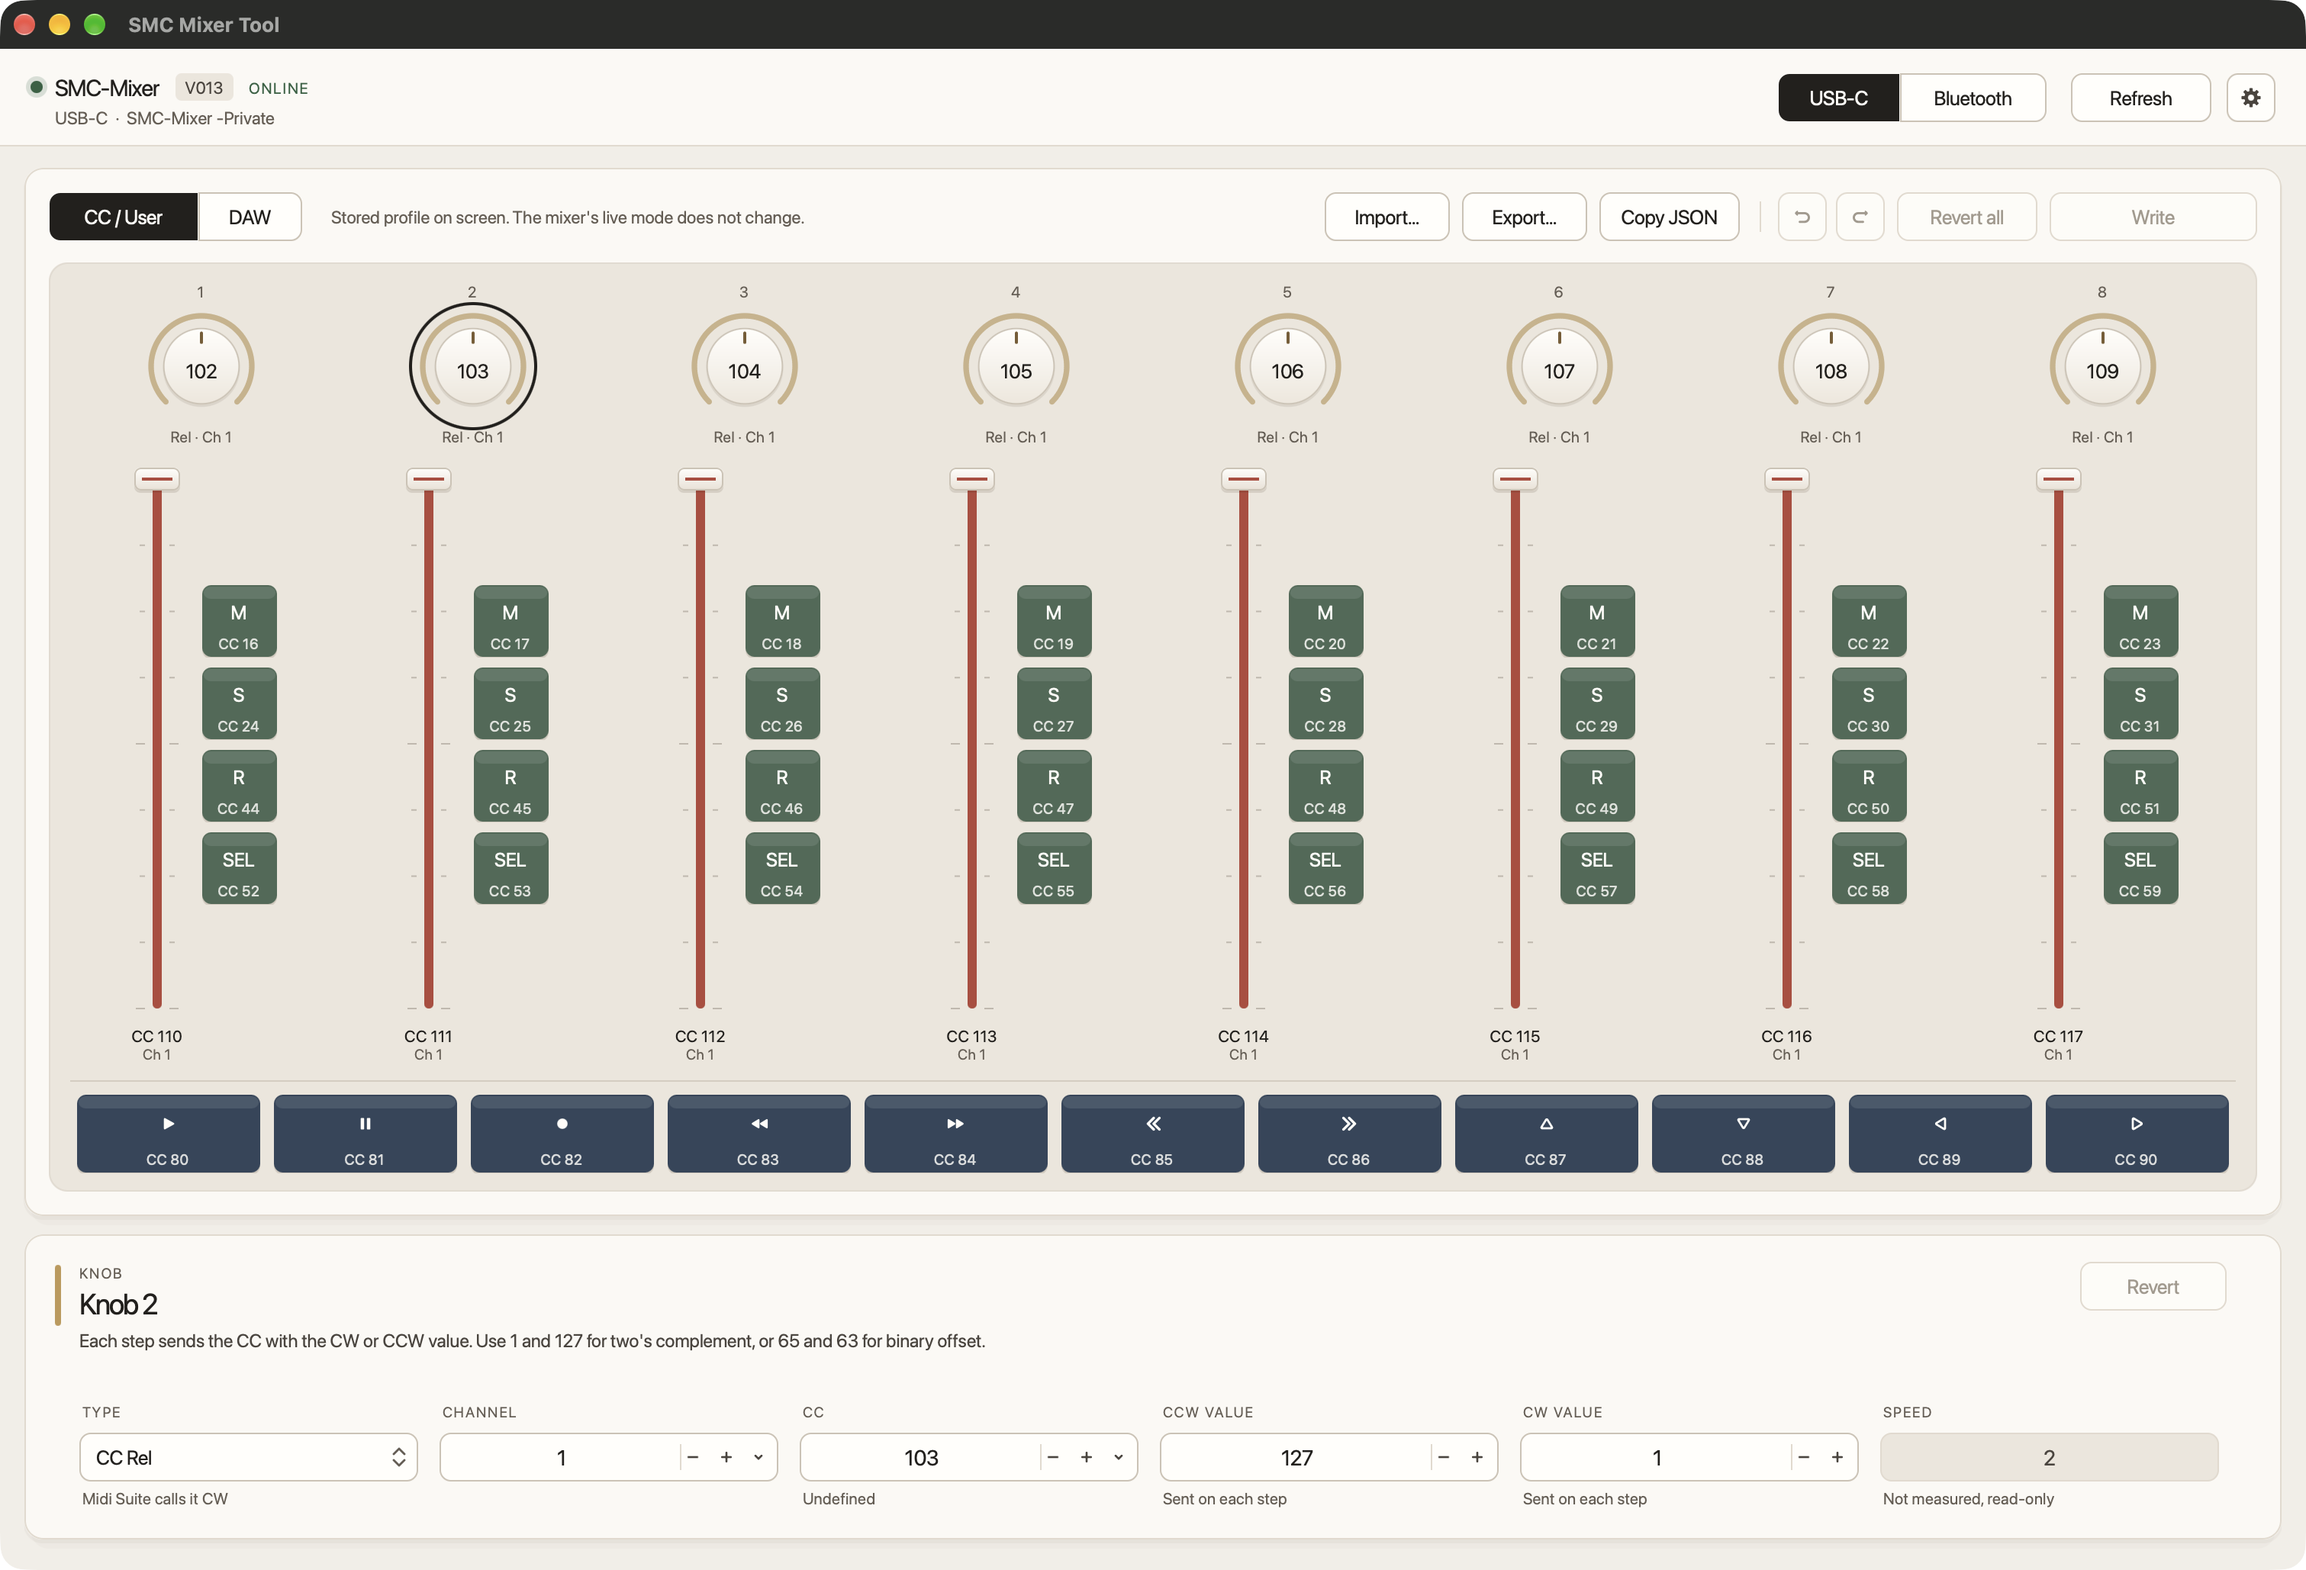
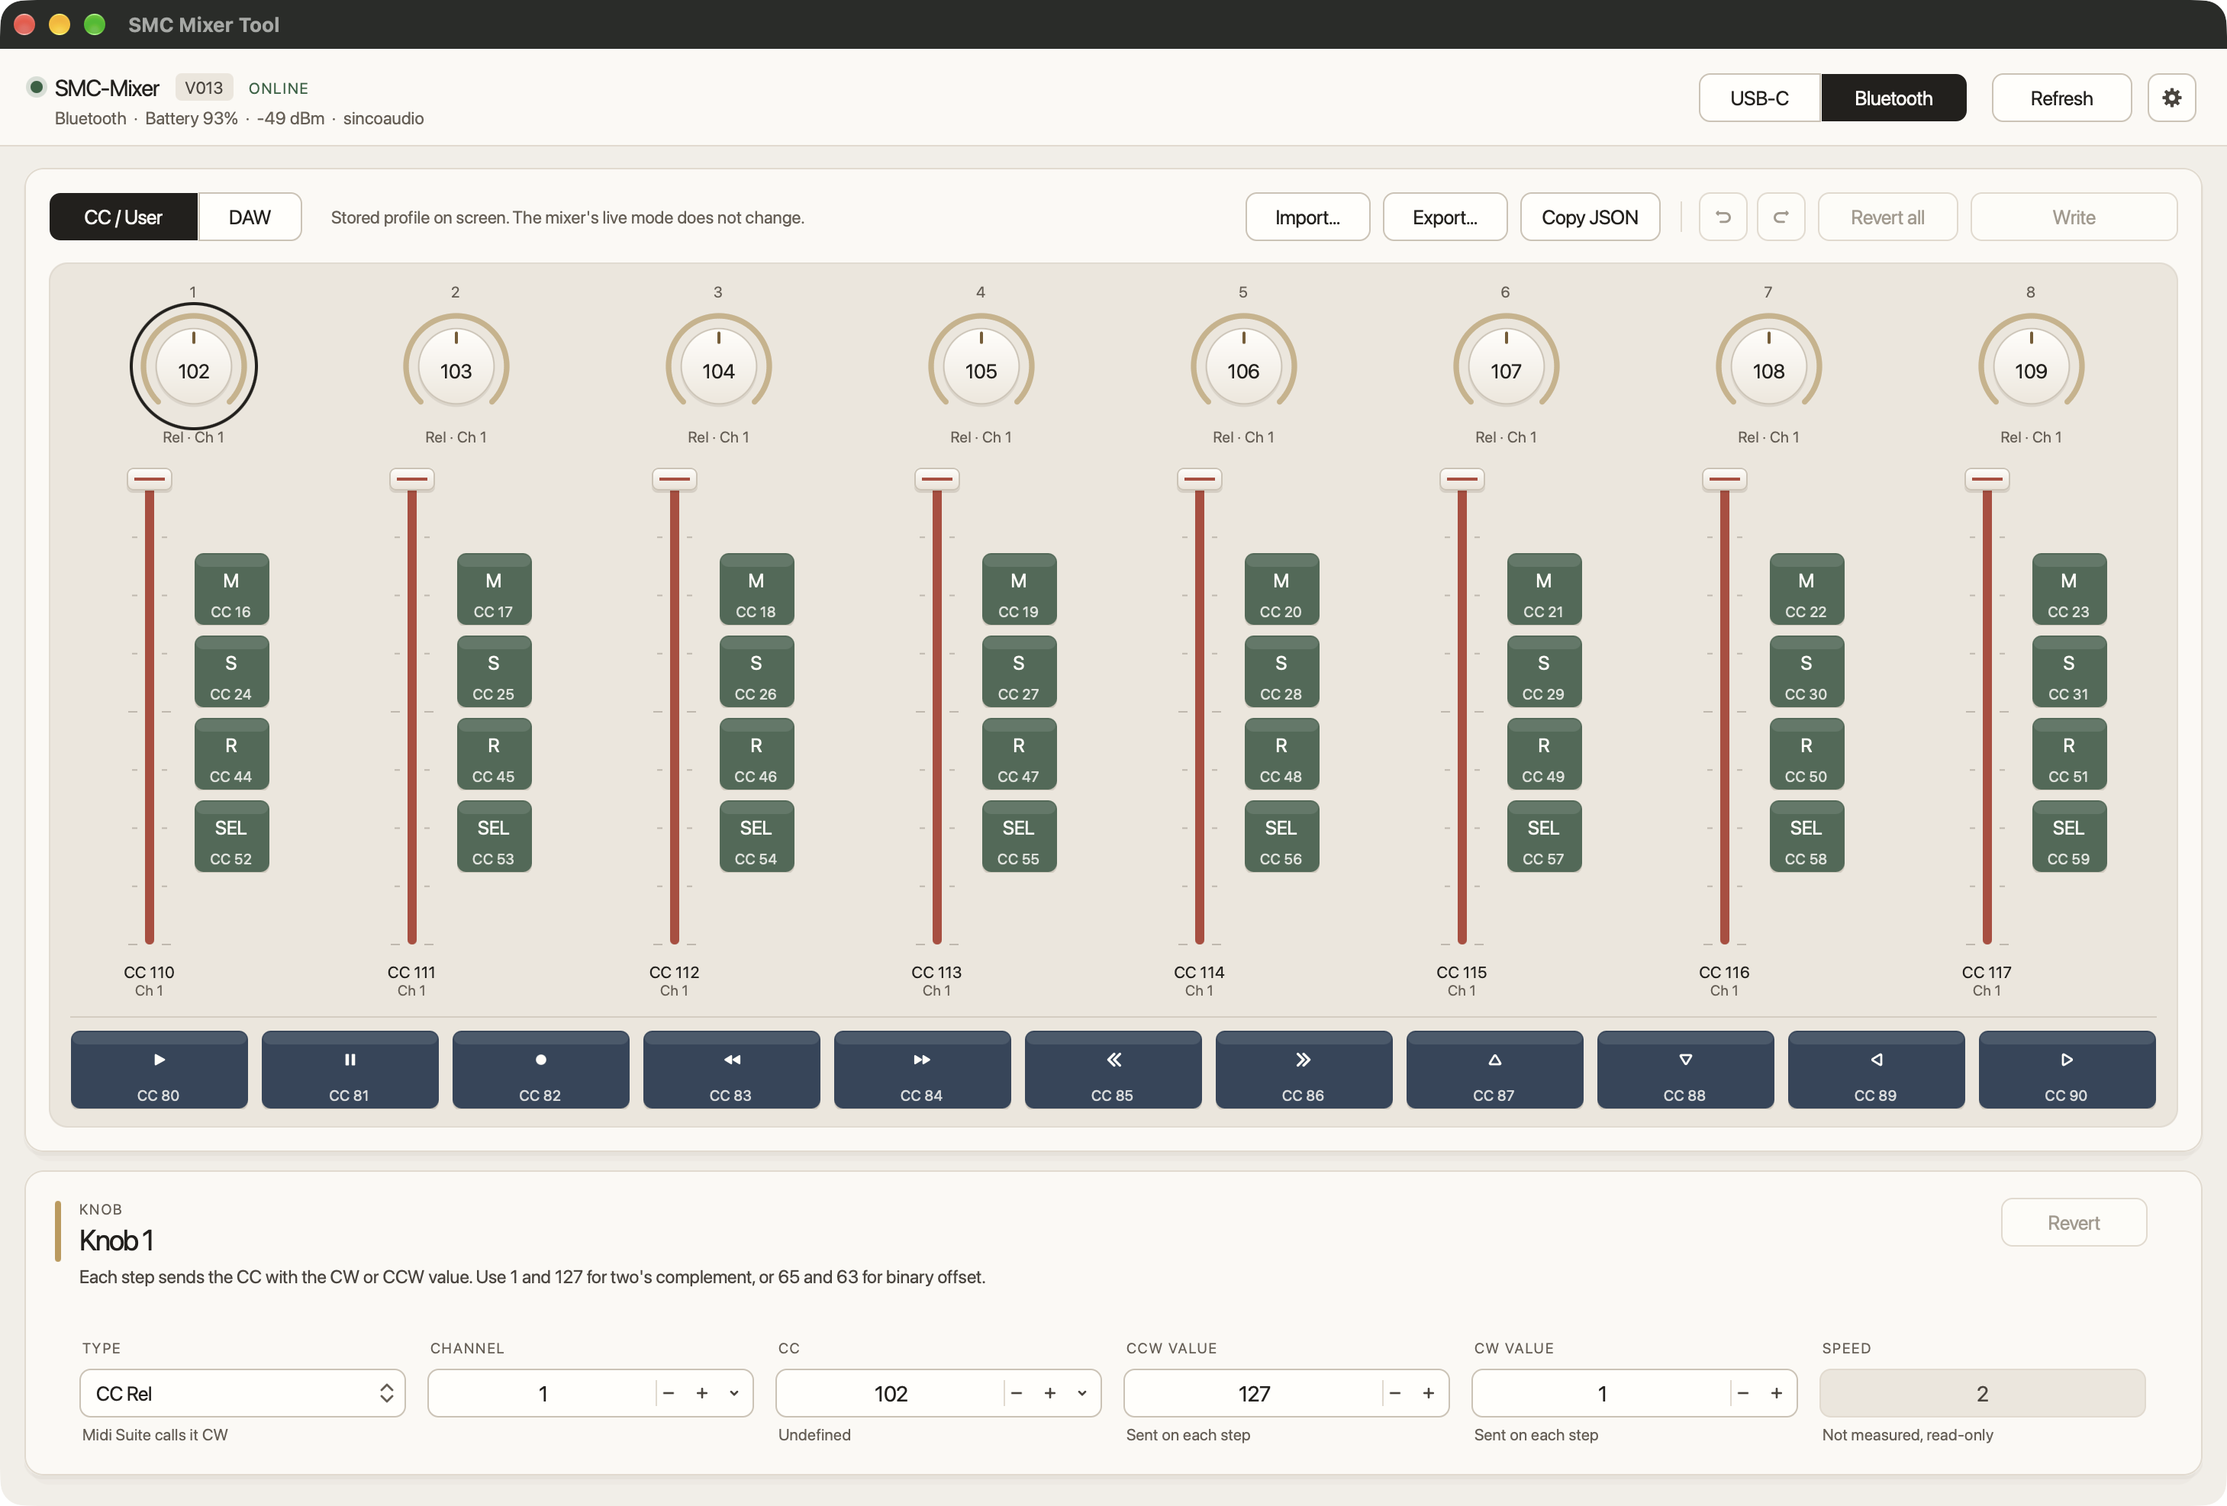
Show 1.2.1 over Bluetooth in the README screenshot.
The screenshot is 1.2.1 connected over Bluetooth with knob 1 selected. The README now says the header shows the manufacturer over Bluetooth, and that knobs show AT or PB when they send no CC.

diff --git a/README.md b/README.md
@@ -2,7 +2,7 @@
 
 macOS app for the M-VAVE SMC-Mixer ([Wireless DAW Control Surface](https://www.m-vave.com/product?id=smc-mixer)). It reads the device identity and both stored profiles over USB-C or Bluetooth, edits the CC / User profile, and writes the changed records back.
 
-![SMC Mixer Tool connected to an SMC-Mixer over USB-C, with knob 2 selected as a CC Rel knob](docs/screenshot.png)
+![SMC Mixer Tool connected to an SMC-Mixer over Bluetooth, with knob 1 selected as a CC Rel knob](docs/screenshot.png)
 
 ## Download
 
@@ -12,11 +12,11 @@ The app is not notarized. The first time you open it, Control-click SMC Mixer To
 
 ## Use
 
-Connect the mixer with USB-C or Bluetooth and open the app. It finds the mixer on the link chosen at the top right, reads its identity, then reads a 6,282-byte settings image: the DAW profile, then the CC / User profile, 3,141 bytes each. The bar across the top says whether the mixer is online, what the app is doing, and what the link reports: the USB-C port, or battery and signal over Bluetooth. Refresh reads everything again.
+Connect the mixer with USB-C or Bluetooth and open the app. It finds the mixer on the link chosen at the top right, reads its identity, then reads a 6,282-byte settings image: the DAW profile, then the CC / User profile, 3,141 bytes each. The bar across the top says whether the mixer is online, what the app is doing, and what the link reports: the USB-C port, or battery, signal, and manufacturer over Bluetooth. Refresh reads everything again.
 
 Unplugging the USB-C cable shows at once, and plugging it back in reconnects. With unsaved edits only the identity is read again, so the edits stay and Write can send them. A dropped Bluetooth link is reported too; Refresh connects again.
 
-The panel draws the mixer as it is laid out: eight channels of a knob over a fader and its Mute, Solo, Record, and Select keys, then the transport keys. Each control shows what is stored for it. A knob shows its CC number, its type, and its Min to Max range on the ring. A fader shows its range on the slot. When the window is tall enough, each key also shows the CC, note, or program it sends. Click a control, or move between them with the arrow keys, to see all of its settings below. The panel only selects a control. It does not send performance MIDI.
+The panel draws the mixer as it is laid out: eight channels of a knob over a fader and its Mute, Solo, Record, and Select keys, then the transport keys. Each control shows what is stored for it. A knob shows its CC number, or AT or PB for the types that send no CC, with its type and channel below and its Min to Max range on the ring. A fader shows the same below its slot, and its range on the slot. When the window is tall enough, each key also shows the CC, note, or program it sends. Click a control, or move between them with the arrow keys, to see all of its settings below. The panel only selects a control. It does not send performance MIDI.
 
 CC / User and DAW, at the top left of the panel, choose which stored profile is on screen. The mixer's live mode stays where it is. The M-VAVE manual switches it by holding Shift and pressing Left or Right.
 
